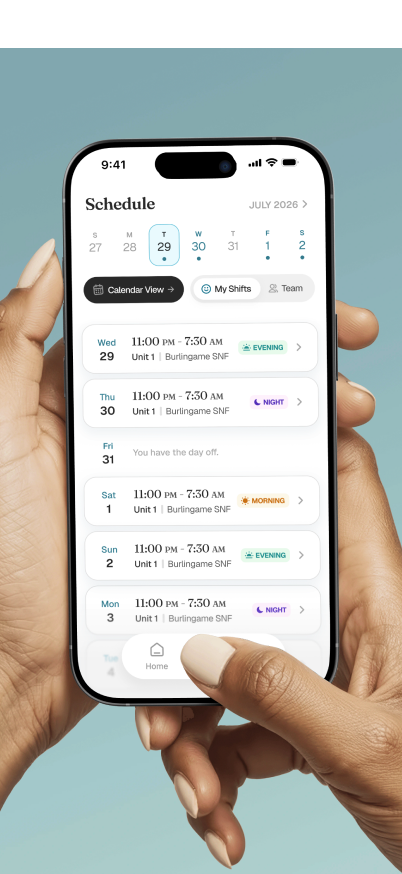
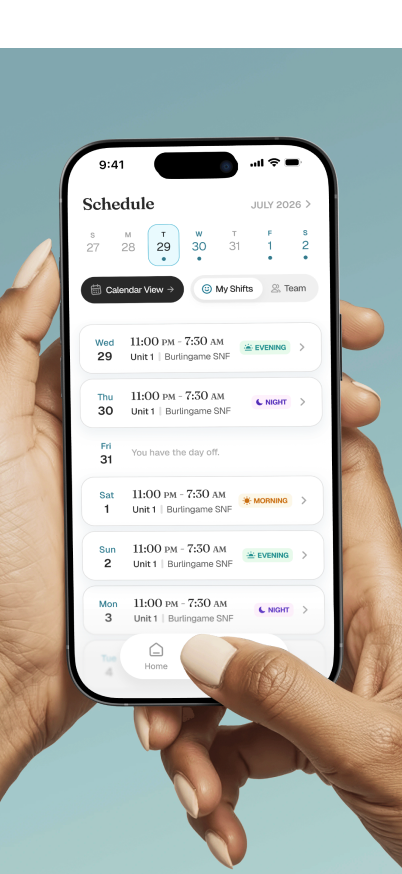
sync onboarding splash to figma auto-layout update
replaces the radial vignette and flat fade with the new linear
top gradient and frosted backdrop-blur transition into the white
card, and re-pulls the hero mockup image. content now hugs the
copy per the new auto-layout instead of being pinned to the
screen bottom.

diff --git a/src/pages/onboarding/Screen0.jsx b/src/pages/onboarding/Screen0.jsx
@@ -13,37 +13,31 @@ export default function Screen0({ onGetStarted, onSignIn }) {
         />
         <div className="absolute inset-x-0 top-0 h-[54px] bg-[#81a7af]" />
 
+        <div className="pointer-events-none absolute inset-x-0 top-0 h-[31.3%] bg-gradient-to-t from-[rgba(136,172,180,0)] to-[#00536c]" />
         <div
-          className="pointer-events-none absolute inset-x-0 top-0 h-40"
-          style={{
-            background:
-              'radial-gradient(120% 100% at 50% 0%, rgba(0,53,69,0.45) 0%, rgba(0,53,69,0) 75%)',
-          }}
-        />
-        <div
-          className="pointer-events-none absolute inset-x-0 bottom-0 h-2/3"
-          style={{
-            background: 'linear-gradient(to bottom, rgba(255,255,255,0) 0%, #ffffff 92%)',
-          }}
+          className="pointer-events-none absolute inset-x-0 top-[82%] bottom-0 backdrop-blur-[3.5px]"
+          style={{ background: 'linear-gradient(to bottom, rgba(255,255,255,0), #ffffff)' }}
         />
 
         <Wordmark
           size={30}
-          className="absolute left-1/2 top-16 -translate-x-1/2 text-[#f8fdff] [text-shadow:0_3px_17px_rgba(0,53,69,0.2)]"
+          className="absolute left-1/2 top-[14.7%] -translate-x-1/2 text-[#f8fdff] [text-shadow:0_3px_17px_rgba(0,53,69,0.2)]"
         />
       </div>
 
-      <div className="flex flex-1 flex-col items-center px-6 pb-10 text-center">
-        <h1 className="font-display text-[30px] leading-[1.15] font-semibold tracking-[-0.6px] text-[#004458]">
-          Built for <span className="italic">nurses</span>.
-          <br />
-          Made for your unit.
-        </h1>
-        <p className="mt-4 max-w-[280px] text-[17px] tracking-[-0.34px] text-[#004458]">
-          Track shifts, see who's working, claim open ones.
-        </p>
+      <div className="flex flex-col items-center gap-6 px-6 pt-3 pb-10 text-center">
+        <div className="flex flex-col items-center gap-4">
+          <h1 className="font-display text-[30px] leading-[1.1] font-semibold tracking-[-0.6px] text-[#004458]">
+            Built for <span className="italic">nurses</span>.
+            <br />
+            Made for your unit.
+          </h1>
+          <p className="max-w-[280px] text-[17px] tracking-[-0.34px] text-[#004458]">
+            Track shifts, see who's working, claim open ones.
+          </p>
+        </div>
 
-        <div className="mt-auto flex w-full flex-col gap-3 pt-10">
+        <div className="flex w-full flex-col gap-3">
           <Button
             type="button"
             onClick={onGetStarted}
